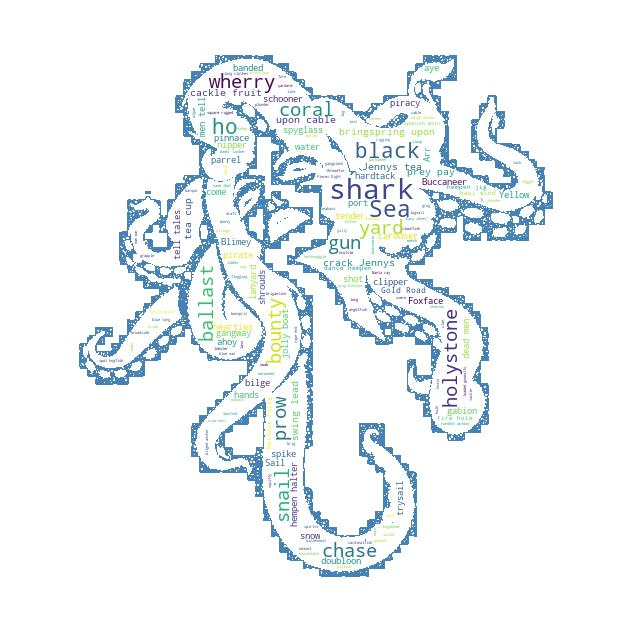
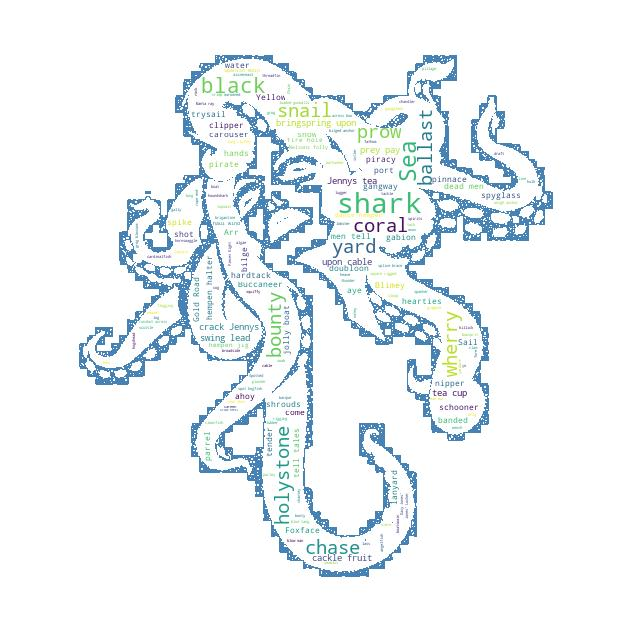
adjust wordcloud parameters

diff --git a/7_pirate_wordcloud.py b/7_pirate_wordcloud.py
@@ -6,6 +6,11 @@ from wordcloud import WordCloud, STOPWORDS
 
 
 def generate_wordcloud(wordcloud: WordCloud, mask: [int]):
+    """
+    Plots a wordcloud to a specific numpy array image
+    :param wordcloud: the wordcloud object
+    :param mask: the mask (stencil) that creates the specific image
+    """
     plt.imshow(wordcloud, interpolation='bilinear')
     plt.axis("off")
     plt.figure()
@@ -17,24 +22,23 @@ def generate_wordcloud(wordcloud: WordCloud, mask: [int]):
 def main():
     dir = getcwd()
 
-    # Read the whole text.
+    # Read the whole text
     text = open('lorem_ipsum/pirate_fish.txt').read()
 
     # read the mask image
     octopus_mask = np.array(Image.open(path.join(dir, "img/lady_octopus.jpg")))
-
     stopwords = set(STOPWORDS)
     stopwords.add("said")
 
-    wc = WordCloud(background_color="white", max_words=2000, mask=octopus_mask,
-                   stopwords=stopwords, contour_width=1, contour_color='steelblue')
-
     # generate word cloud
+    wc = WordCloud(background_color="white", max_words=1500, mask=octopus_mask,
+                   stopwords=stopwords, contour_width=1, contour_color='steelblue')
     wc.generate(text)
 
     # store to file
     wc.to_file(path.join(dir, "octopus_cloud.jpg"))
 
+    # plot wordcloud
     generate_wordcloud(wc, octopus_mask)
 
 
